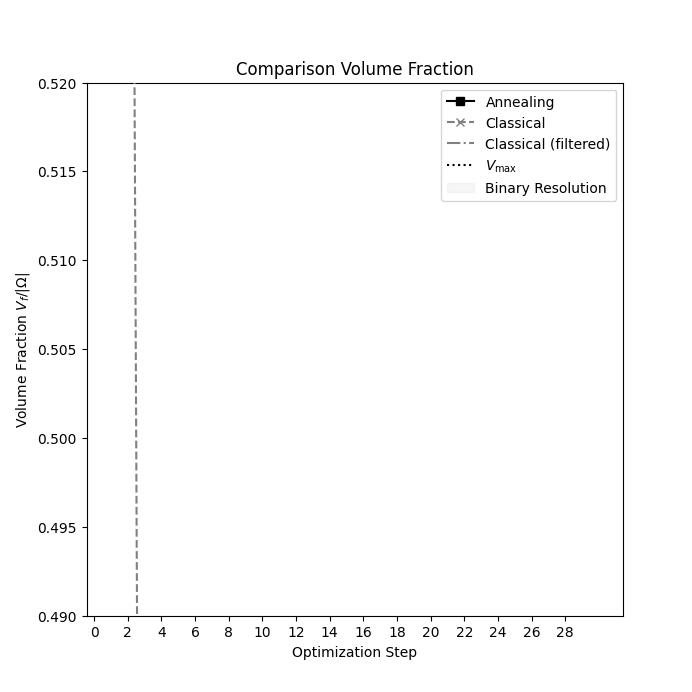
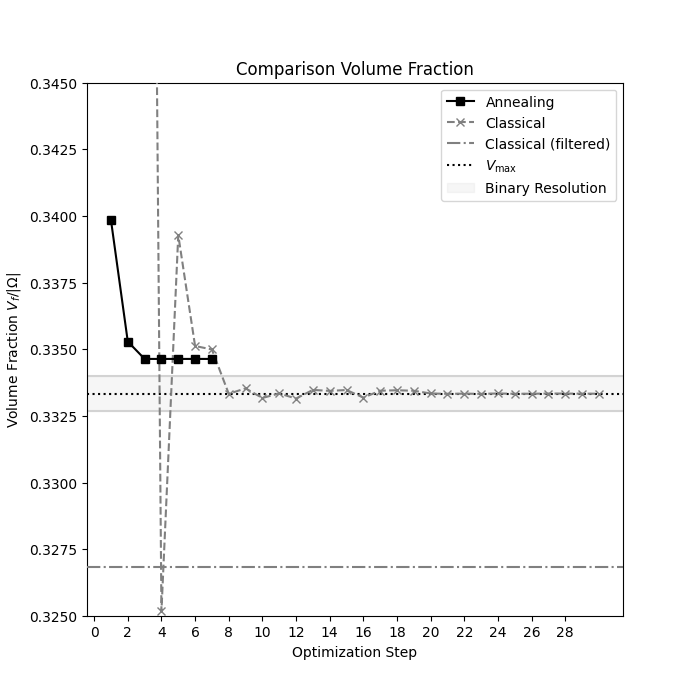
Fix plot for volume fraction comparison for double pipe

diff --git a/scripts/2024_paper_arXiv/double_pipe/comparison/double_pipe_comparison.py b/scripts/2024_paper_arXiv/double_pipe/comparison/double_pipe_comparison.py
@@ -220,7 +220,7 @@ ax.axhline(y=volume_fraction_max+1*dV, color='lightgray')
 ax.axhline(y=volume_fraction_max-1*dV, color='lightgray')
 ax.fill_between(x_fill, volume_fraction_max-1*dV, volume_fraction_max+1*dV, color='lightgray', alpha=0.2, label='Binary Resolution', zorder=1)
 ax.set_xlim(x_limits)
-ax.set_ylim([0.49,0.52])
+ax.set_ylim([0.325,0.345])
 natural_numbers = np.arange(0, max(len(annealing_optimizer.objective_function_list),len(poly_top.objective_function_list)),2)
 plt.xticks(natural_numbers)
 ax.set_xlabel('Optimization Step')

diff --git a/scripts/2024_paper_arXiv/double_pipe/comparison/comparison_volume_fraction.tex b/scripts/2024_paper_arXiv/double_pipe/comparison/comparison_volume_fraction.tex
@@ -18,7 +18,7 @@ xmin=-0.45, xmax=31.45,
 xtick style={color=black},
 y grid style={darkgray176},
 ylabel={Volume Fraction \(\displaystyle V_f/|\Omega|\)},
-ymin=0.49, ymax=0.52,
+ymin=0.325, ymax=0.345,
 ytick style={color=black}
 ]
 \path [draw=lightgray, fill=lightgray, opacity=0.2]
